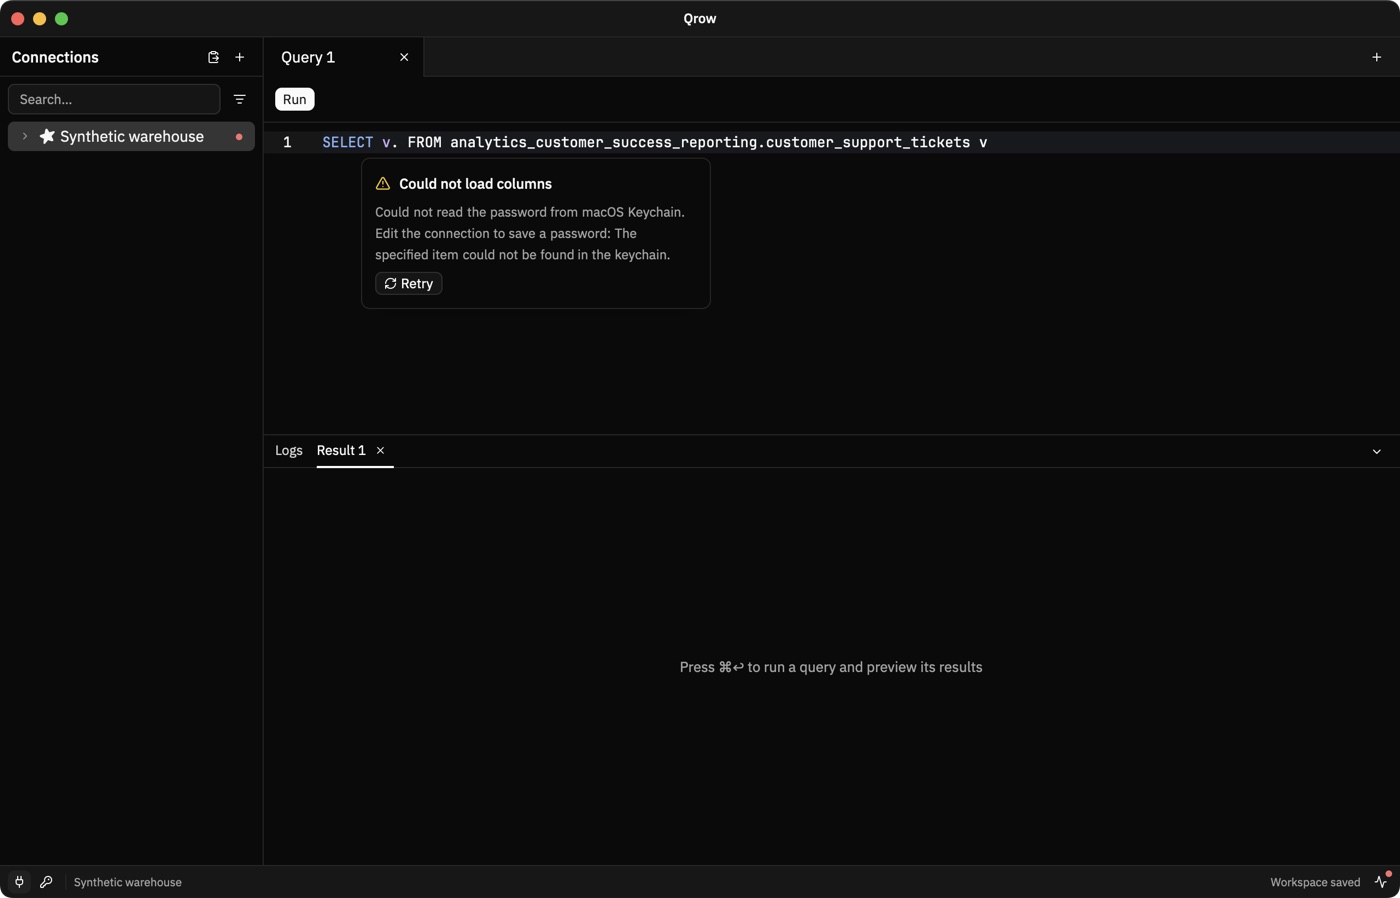
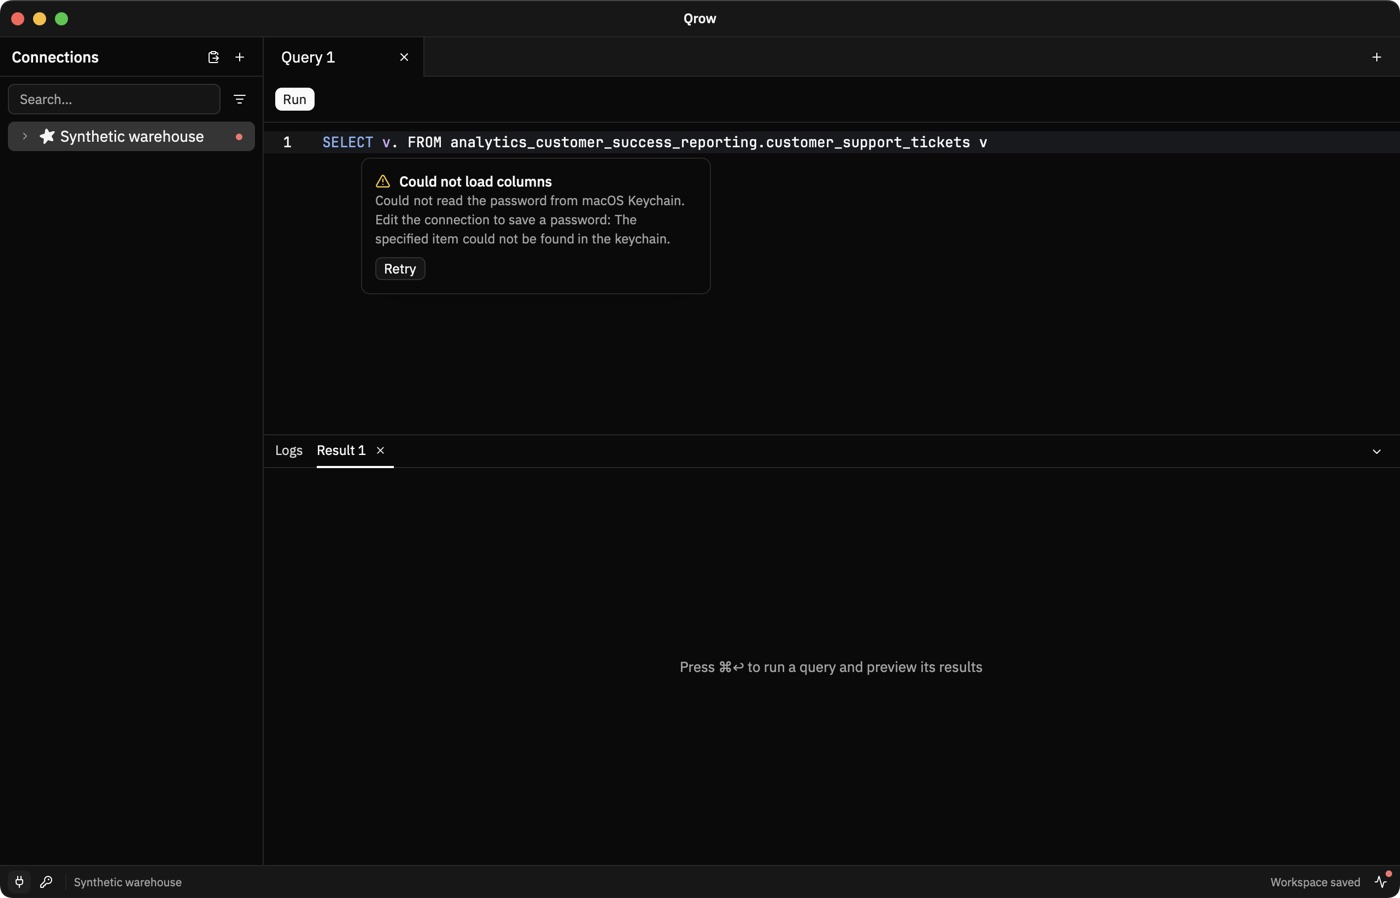
fix(ui): even spacing and a plain button in the suggestion notices
Rename the empty state to "No cached metadata". Give the title and the
message one line height, so the space above and below the message is
the same. Use the secondary button without an icon, like the other
Refresh buttons.

Changed region(s): [[0.2457, 0.1871, 0.4914, 0.343]]

diff --git a/src/ui/sql_completion.rs b/src/ui/sql_completion.rs
@@ -708,7 +708,7 @@ impl Qrow {
             )),
             Body::NotRead => shell.child(self.completion_notice(
                 Notice {
-                    title: "No cached tables",
+                    title: "No cached metadata",
                     message: vec![Text::Plain(
                         "Refresh the schemas of this connection to get suggestions.".into(),
                     )],
@@ -721,7 +721,7 @@ impl Qrow {
             )),
             Body::Off => shell.child(self.completion_notice(
                 Notice {
-                    title: "No cached tables",
+                    title: "No cached metadata",
                     message: vec![Text::Plain(
                         "Turn on metadata refresh in the connection settings.".into(),
                     )],
@@ -775,9 +775,13 @@ impl Qrow {
             .role(Role::Status)
             .aria_label(title)
             .p(self.ui_px(8.))
-            .gap(self.ui_px(6.))
+            // One line height for the title and the message, like toasts,
+            // so that the space above and below the message is the same.
+            .line_height(rems(1.25))
             .child(
                 h_flex()
+                    .id("sql-completion-title")
+                    .test_support()
                     .gap(self.ui_px(GAP))
                     .font_weight(FontWeight::MEDIUM)
                     .when(warning, |row| {
@@ -799,15 +803,12 @@ impl Qrow {
             )
             .when_some(action.zip(profile), |notice, ((id, label), _)| {
                 notice.child(
-                    h_flex().child(
-                        Button::new(id)
-                            .outline()
-                            .small()
-                            .icon(IconName::RefreshCw)
-                            .label(label)
-                            .on_click(cx.listener(|this, _, _, cx| {
+                    h_flex().mt(self.ui_px(8.)).child(
+                        Button::new(id).small().label(label).on_click(cx.listener(
+                            |this, _, _, cx| {
                                 this.refresh_completion(cx);
-                            })),
+                            },
+                        )),
                     ),
                 )
             })

diff --git a/tests/ui/completion.rs b/tests/ui/completion.rs
@@ -305,7 +305,7 @@ fn a_connection_without_cached_metadata_offers_refresh(cx: &mut TestAppContext) 
     let (app, _) = launch(cx, None, &[]);
     complete(&app, cx, "SELECT * FROM ");
     app.wait_until(cx, "the empty state", WAIT, |window, _| {
-        label(window, "sql-completion-notice").as_deref() == Some("No cached tables")
+        label(window, "sql-completion-notice").as_deref() == Some("No cached metadata")
     });
     assert!(app.update(cx, |window, _| {
         window.try_find("sql-completion-refresh").is_some()
@@ -316,6 +316,16 @@ fn a_connection_without_cached_metadata_offers_refresh(cx: &mut TestAppContext) 
         let message = bounds_of(window, "sql-completion-message");
         assert!(message.right() <= popup.right(), "{popup:?} {message:?}");
         assert!(message.size.height > gpui_kit::px(24.), "{message:?}");
+        // The message lines are as tall as the title line, so the space
+        // above and below the message is the same.
+        let title = bounds_of(window, "sql-completion-title");
+        let lines = message.size.height / title.size.height;
+        assert!(
+            (lines - lines.round()).abs() < 0.01,
+            "{title:?} {message:?}"
+        );
+        let button = bounds_of(window, "sql-completion-refresh");
+        assert!(button.top() - message.bottom() >= message.top() - title.bottom());
     });
 }
 

diff --git a/tests/e2e/catalog.rs b/tests/e2e/catalog.rs
@@ -1002,7 +1002,7 @@ fn autocomplete_reads_the_metadata_on_request_and_inserts_quoted_names(cx: &mut 
     app.press(cx, "tab");
     app.wait_until(cx, "the empty state", QUERY_TIMEOUT, |window, _| {
         crate::support::label(window, "sql-completion-notice").as_deref()
-            == Some("No cached tables")
+            == Some("No cached metadata")
     });
     // Tab runs Refresh, and the list then shows the view.
     app.press(cx, "tab");

diff --git a/docs/queries.md b/docs/queries.md
@@ -324,7 +324,7 @@ When the list needs data that the copy does not have, Qrow reads it, like a
 **Refresh** of that table or schema in the tree. This read can open a
 session. If the read fails, the list shows the error. Press **Tab** when the
 list has no names, or select **Retry**, to read again. For a connection that
-Qrow never read, the list shows **No cached tables**. Press **Tab** or select
+Qrow never read, the list shows **No cached metadata**. Press **Tab** or select
 **Refresh** to read it.
 
 When the metadata of a schema in the list is older than the
